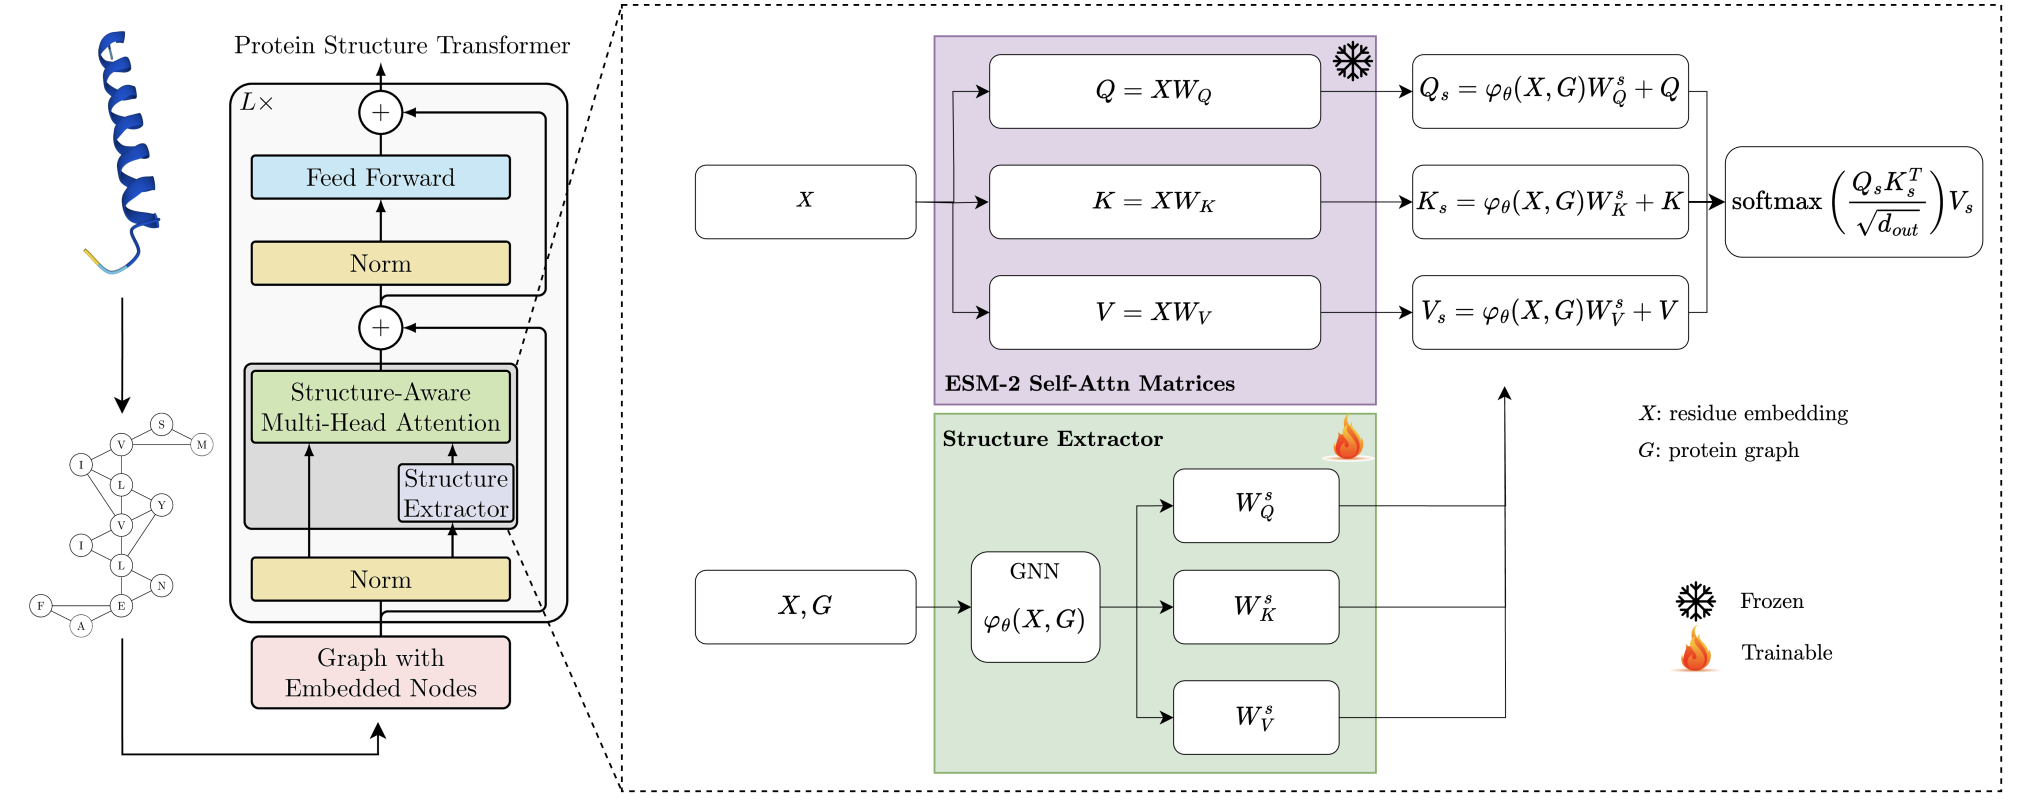
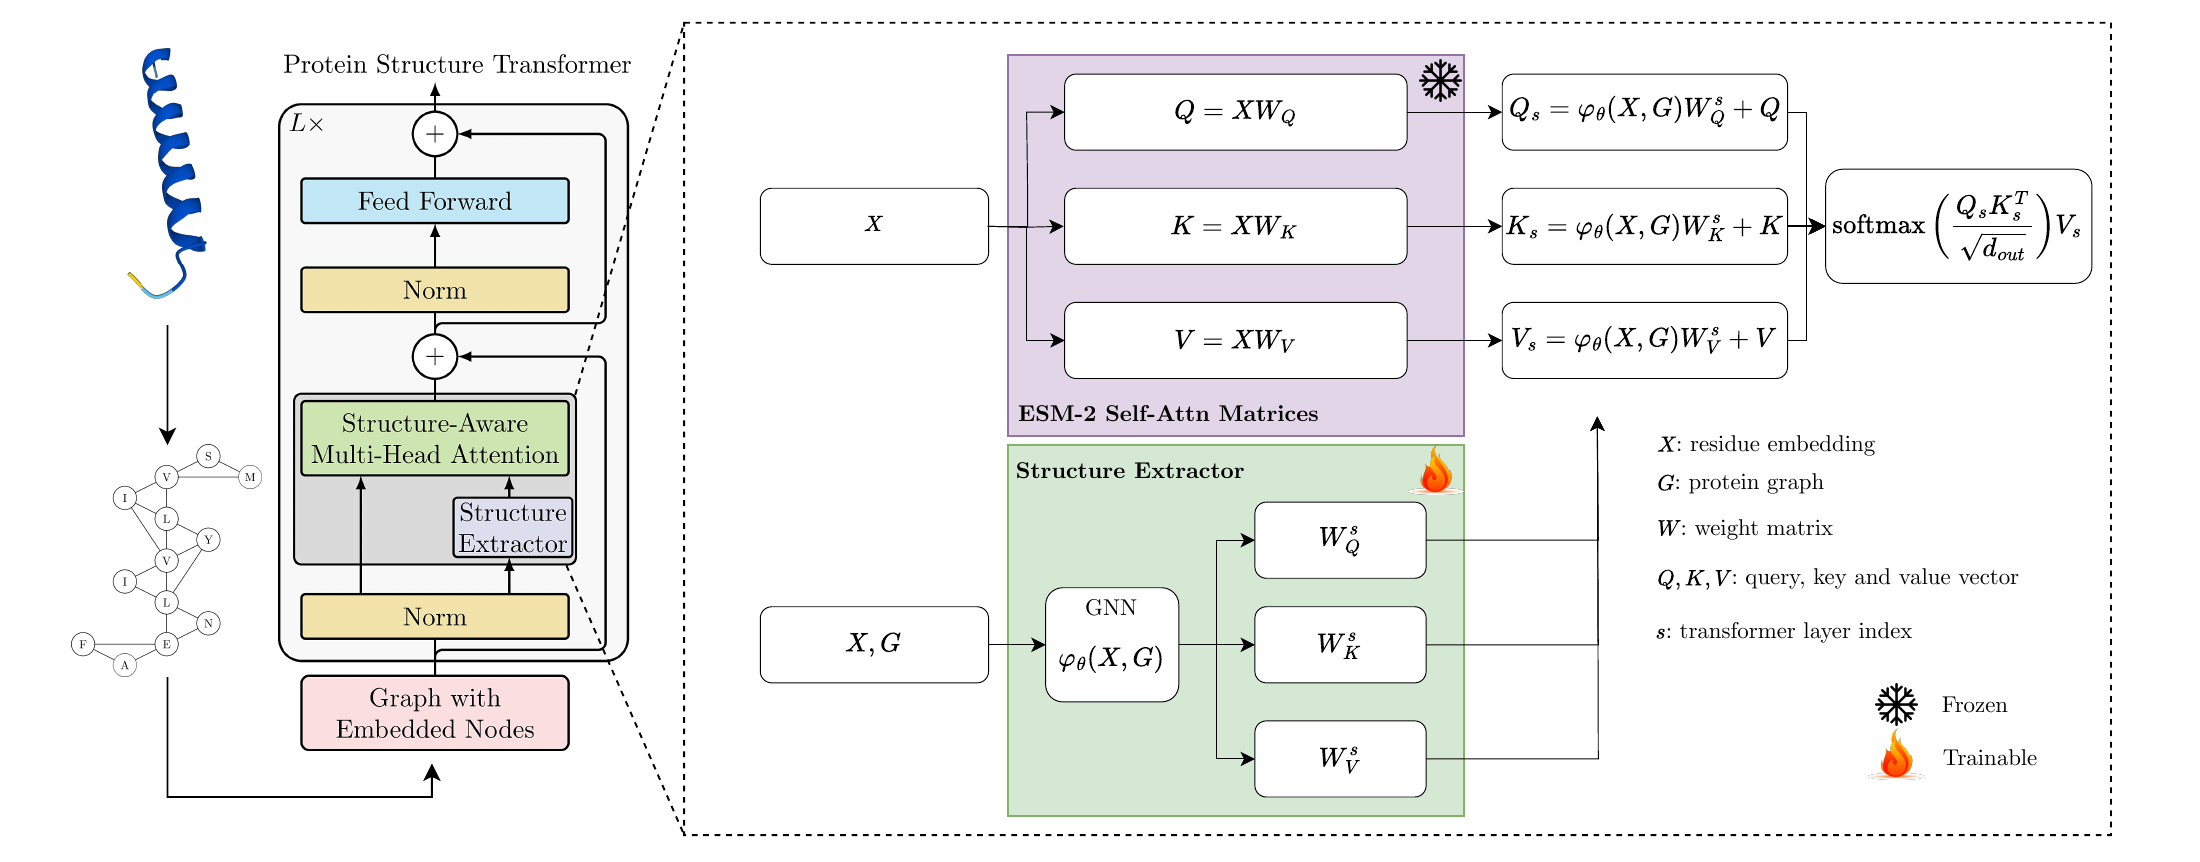
Add Hartout 2025 PST paper to publications; update RNA DD review venue (in revision at ACS JCIM)

diff --git a/publications.md b/publications.md
@@ -64,10 +64,16 @@ This is a list of papers published since starting the lab in January 2025. For a
 
 <table class="publications-table">
   <tr>
+    <td><img src="/assets/pst.png" class="pub-img" alt="Endowing protein language models"></td>
+    <td><b>Endowing protein language models with structural knowledge</b><br>
+    Philip Hartout*, Dexiong Chen*, Paolo Pellizzoni, Carlos Oliver, Karsten Borgwardt<br>
+    <i>Bioinformatics, 41(11):btaf582, 2025</i> (<a href="https://arxiv.org/abs/2401.14819">preprint</a>)</td>
+  </tr>
+  <tr>
     <td><img src="/assets/rna_drug_design_fig1a.png" class="pub-img" alt="RNA drug design"></td>
     <td><b>Machine learning for RNA-targeting drug design</b><br>
     Wissam Karroucha, Carlos Oliver, Veronique Stoven, Vincent Mallet<br>
-    <i>arXiv preprint arXiv:2512.15645, 2025</i> (<a href="https://arxiv.org/abs/2512.15645">preprint</a>)</td>
+    <i>Journal of Chemical Information and Modeling (in revision), 2025</i> (<a href="https://arxiv.org/abs/2512.15645">preprint</a>)</td>
   </tr>
   <tr>
     <td><img src="/assets/ensembits.png" class="pub-img" alt="ENSEMBITS"></td>